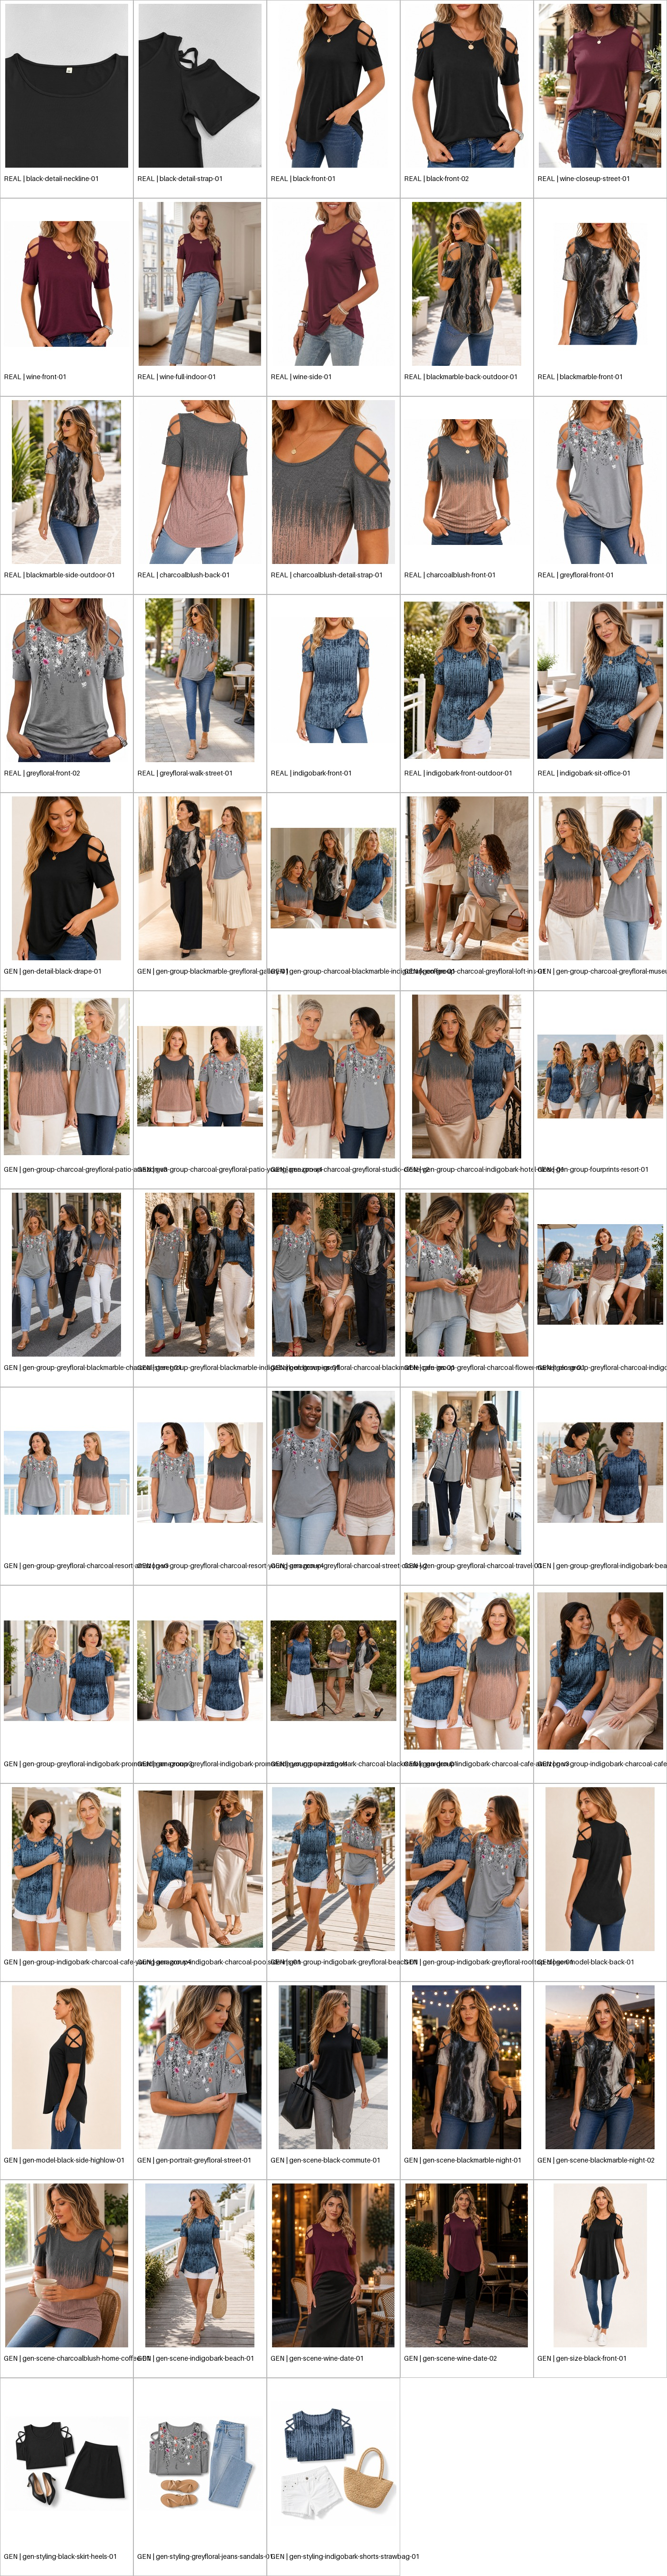
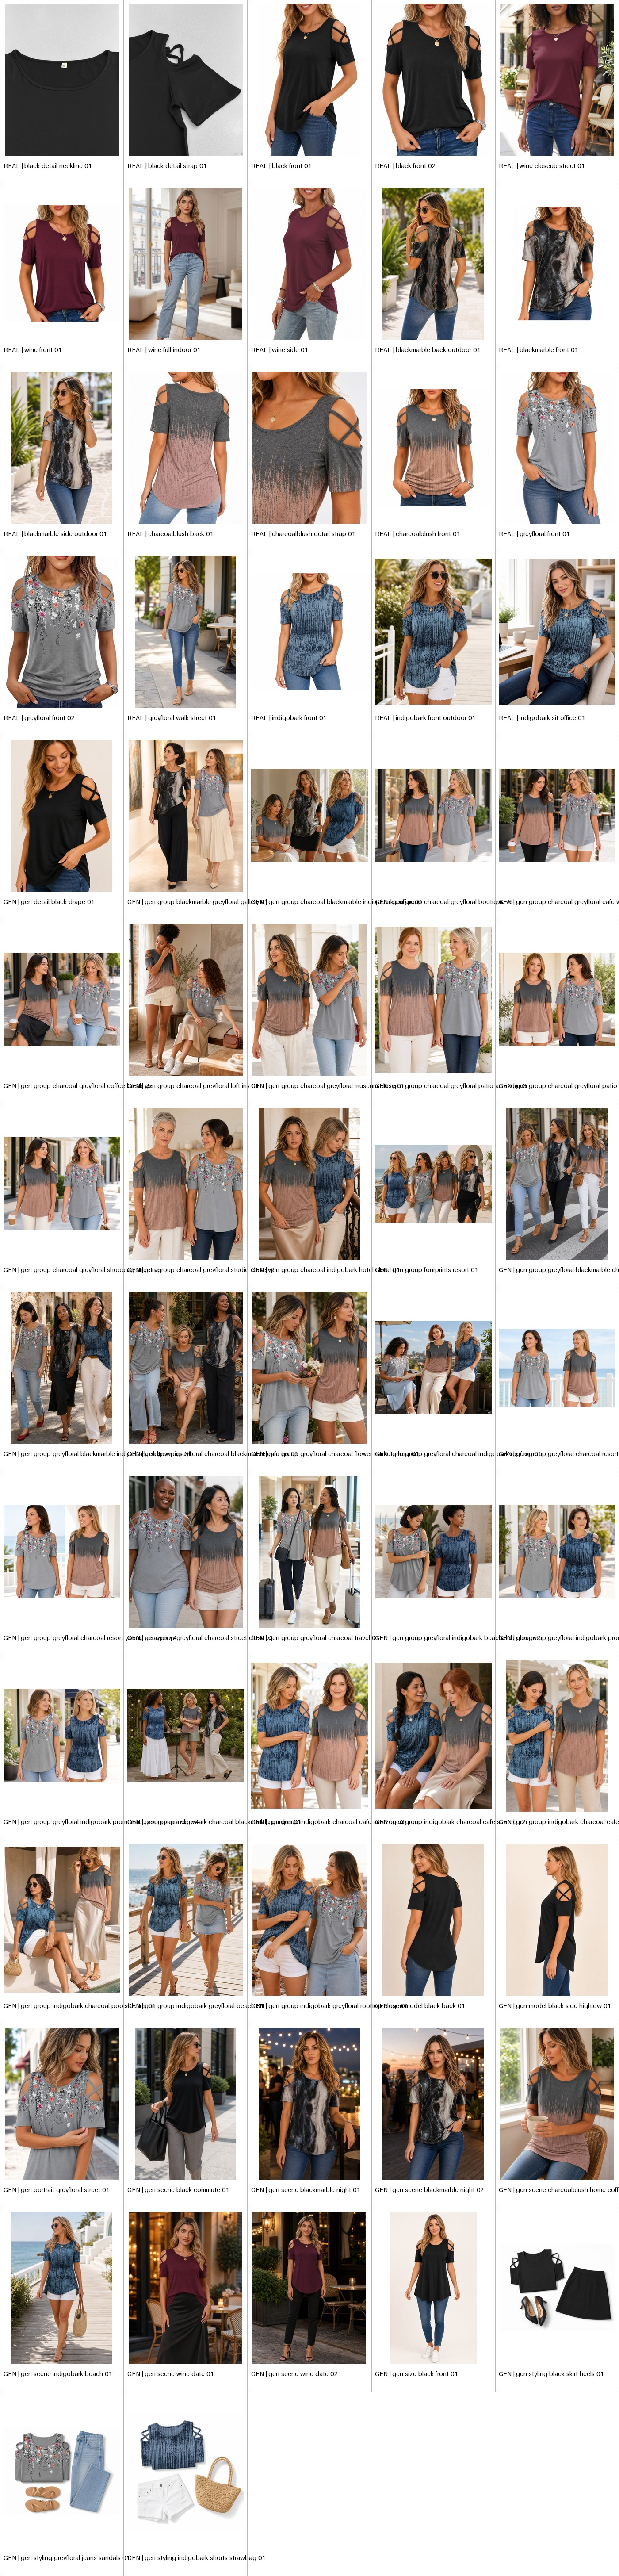
Add young dual-print shopping street assets

diff --git a/scripts/build-group-print-contact-sheet-05.py b/scripts/build-group-print-contact-sheet-05.py
@@ -1,0 +1,30 @@
+from pathlib import Path
+
+from PIL import Image, ImageDraw, ImageFont
+
+
+ROOT = Path(__file__).resolve().parents[1]
+FILES = [
+    ROOT / "assets/gen/gen-group-charcoal-greyfloral-shopping-street-v5.png",
+    ROOT / "assets/gen/gen-group-charcoal-greyfloral-cafe-walk-v5.png",
+    ROOT / "assets/gen/gen-group-charcoal-greyfloral-boutique-v5.png",
+    ROOT / "assets/gen/gen-group-charcoal-greyfloral-coffee-break-v5.png",
+]
+OUT = ROOT / "assets/gen/group-print-contact-sheet-05.jpg"
+
+cell_w, cell_h, label_h = 620, 500, 52
+sheet = Image.new("RGB", (cell_w * 2, (cell_h + label_h) * 2), "#f7f7f5")
+draw = ImageDraw.Draw(sheet)
+font = ImageFont.load_default(size=17)
+
+for index, path in enumerate(FILES):
+    image = Image.open(path).convert("RGB")
+    image.thumbnail((cell_w - 16, cell_h - 16), Image.Resampling.LANCZOS)
+    x = (index % 2) * cell_w
+    y = (index // 2) * (cell_h + label_h)
+    sheet.paste(image, (x + (cell_w - image.width) // 2, y + (cell_h - image.height) // 2))
+    draw.rectangle((x, y, x + cell_w - 1, y + cell_h + label_h - 1), outline="#c5c5c0", width=2)
+    draw.text((x + 16, y + cell_h + 15), path.stem, fill="#343434", font=font)
+
+sheet.save(OUT, quality=92)
+print(OUT)

diff --git a/assets/gen/ASSET-GAP-AUDIT.md b/assets/gen/ASSET-GAP-AUDIT.md
@@ -127,3 +127,14 @@
 - 场景:美国商业街、住宅露台、咖啡露台、海滨度假阳台。
 - 印花:greyfloral / charcoalblush / indigobark;每张均使用对应实拍参考。
 - 专用验收拼图:`group-print-contact-sheet-04-v4.jpg`。
+
+## 双花型街拍素材批次 05 — 用户指定参考图
+
+- 新增 Approved:4 张,仅使用用户指定的 charcoalblush 与 greyfloral 两款花型。
+- 模特:固定同一对欧美女性,23 岁棕发与 28 岁金发,四个场景保持身份连续。
+- 场景:购物街行走、咖啡店外散步、精品店橱窗购物、步行街咖啡休息。
+- 搭配:米色长裤、黑长裤、浅色牛仔、米色短裤、牛仔裙;所有衣摆完整放下。
+- 道具:无标识咖啡杯、低位购物袋、低位墨镜和手机,均不遮挡印花或肩部结构。
+- 质量淘汰:首张校准图因 charcoalblush 衣摆塞入裤腰被拒绝,未复制、未登记。
+- 用户参考图已复制为 `assets/source-user-charcoalblush-front-02.png` 和 `assets/source-user-greyfloral-front-03.png`。
+- 专用验收拼图:`group-print-contact-sheet-05.jpg`。

diff --git a/assets/gen/INDEX.md b/assets/gen/INDEX.md
@@ -44,6 +44,10 @@
 | `gen-group-charcoal-greyfloral-patio-young-amazon-v4.png` | Multi-model | charcoalblush + greyfloral | American covered patio | two-model Amazon product crop | Print campaign | `../print-charcoalblush-front-01.jpg`; `../print-greyfloral-front-01.jpg` | 看镜头/看同伴 | 浅笑不露齿/露齿笑 | Generated | Approved | V4;欧美模特 25/34 岁;不同体型;上衣无遮挡 |
 | `gen-group-indigobark-charcoal-cafe-young-amazon-v4.png` | Multi-model | indigobark + charcoalblush | bright cafe terrace | two-model Amazon product crop | Print campaign | `../print-indigobark-front-outdoor-01.jpg`; `../print-charcoalblush-front-01.jpg` | 低头看袖口/看镜头 | 专注/浅笑不露齿 | Generated | Approved | V4;欧美模特 23/31 岁;年轻亲和商业感 |
 | `gen-group-greyfloral-charcoal-resort-young-amazon-v4.png` | Multi-model | greyfloral + charcoalblush | coastal resort veranda | two-model Amazon product crop | Print campaign | `../print-greyfloral-front-01.jpg`; `../print-charcoalblush-front-01.jpg` | 画外左/看同伴 | 平静松弛/露齿笑 | Generated | Approved | V4;欧美模特 35/27 岁;干净海滨背景 |
+| `gen-group-charcoal-greyfloral-shopping-street-v5.png` | Multi-model | charcoalblush + greyfloral | shopping street walk | two-model street crop | Print campaign | `../source-user-charcoalblush-front-02.png`; `../source-user-greyfloral-front-03.png` | 看同伴/看前方 | 浅笑不露齿/露齿笑 | Generated | Approved | V5;固定欧美模特 23/28 岁;咖啡+购物袋;完整衣摆 |
+| `gen-group-charcoal-greyfloral-cafe-walk-v5.png` | Multi-model | charcoalblush + greyfloral | sidewalk cafe walk | two-model street crop | Print campaign | `../source-user-charcoalblush-front-02.png`; `../source-user-greyfloral-front-03.png`; V5 calibration | 低头看咖啡/看同伴 | 专注松弛/浅笑不露齿 | Generated | Approved | V5;黑长裤+米色短裤;咖啡与墨镜均低位无遮挡 |
+| `gen-group-charcoal-greyfloral-boutique-v5.png` | Multi-model | charcoalblush + greyfloral | boutique window shopping | two-model street crop | Print campaign | `../source-user-charcoalblush-front-02.png`; `../source-user-greyfloral-front-03.png`; V5 calibration | 画外左/看同伴 | 平静兴趣/露齿笑 | Generated | Approved | V5;橱窗购物;购物袋与手机低位;同一双人身份 |
+| `gen-group-charcoal-greyfloral-coffee-break-v5.png` | Multi-model | charcoalblush + greyfloral | retail street coffee break | two-model seated crop | Print campaign | `../source-user-charcoalblush-front-02.png`; `../source-user-greyfloral-front-03.png`; V5 calibration | 看同伴/低头看杯 | 露齿笑/专注浅笑 | Generated | Approved | V5;购物休息坐姿;双咖啡;衣摆和花型无遮挡 |
 | `gen-scene-blackmarble-night-01.png` | Scene | blackmarble | night gathering | three-quarter | 04/07 | `../print-blackmarble-front-01.jpg`; `../print-blackmarble-back-outdoor-01.jpg` | 看镜头 | 平静松弛 | Generated | Draft | 拒绝:生成了金色细裂纹,纹样不一致 |
 | `gen-scene-blackmarble-night-02.png` | Scene | blackmarble | night gathering | three-quarter | 04/07 | `../print-blackmarble-front-01.jpg` | 看镜头 | 平静松弛 | Generated | Draft | 二次校准仍出现细金纹,不得用于页面 |
 | `gen-scene-wine-date-01.png` | Scene | wine | date | three-quarter | 04 | `../color-wine-full-indoor-01.jpg`; `../color-wine-side-01.jpg` | 看镜头 | 浅笑不露齿 | Generated | Draft | 衣摆塞入裙腰,不符合产品展示 |
@@ -61,6 +65,8 @@
 | `../print-charcoalblush-back-01.jpg` | Model | charcoalblush | back | three-quarter | 07 | self | off-frame | neutral | Real photo | Ready | 背部渐变基准 |
 | `../print-charcoalblush-detail-strap-01.jpg` | Detail | charcoalblush | strap | close-up | 02 | self | cropped | neutral | Real photo | Ready | 肩带与渐变基准 |
 | `../print-charcoalblush-front-01.jpg` | Model | charcoalblush | front | waist-up | 07 | self | cropped | neutral | Real photo | Ready | 正面渐变基准 |
+| `../source-user-charcoalblush-front-02.png` | Product Reference | charcoalblush | front close-up | waist-up | Asset generation | self | cropped | neutral | User provided | Ready | V5 最高优先灰粉渐变与肩带版型参考 |
+| `../source-user-greyfloral-front-03.png` | Product Reference | greyfloral | front close-up | three-quarter | Asset generation | self | cropped | neutral | User provided | Ready | V5 最高优先灰底花卉与衣摆版型参考 |
 | `../print-greyfloral-front-01.jpg` | Model | greyfloral | front | three-quarter | 07 | self | cropped | neutral | Real photo | Ready | 花簇分布基准 |
 | `../print-greyfloral-front-02.jpg` | Model | greyfloral | front | waist-up | 07 | self | cropped | neutral | Real photo | Ready | 第二正面基准 |
 | `../print-greyfloral-walk-street-01.jpg` | Scene | greyfloral | street shopping | full body | 04/07 | self | off-frame | soft smile | Real photo | Ready | 矩阵场景已覆盖 |